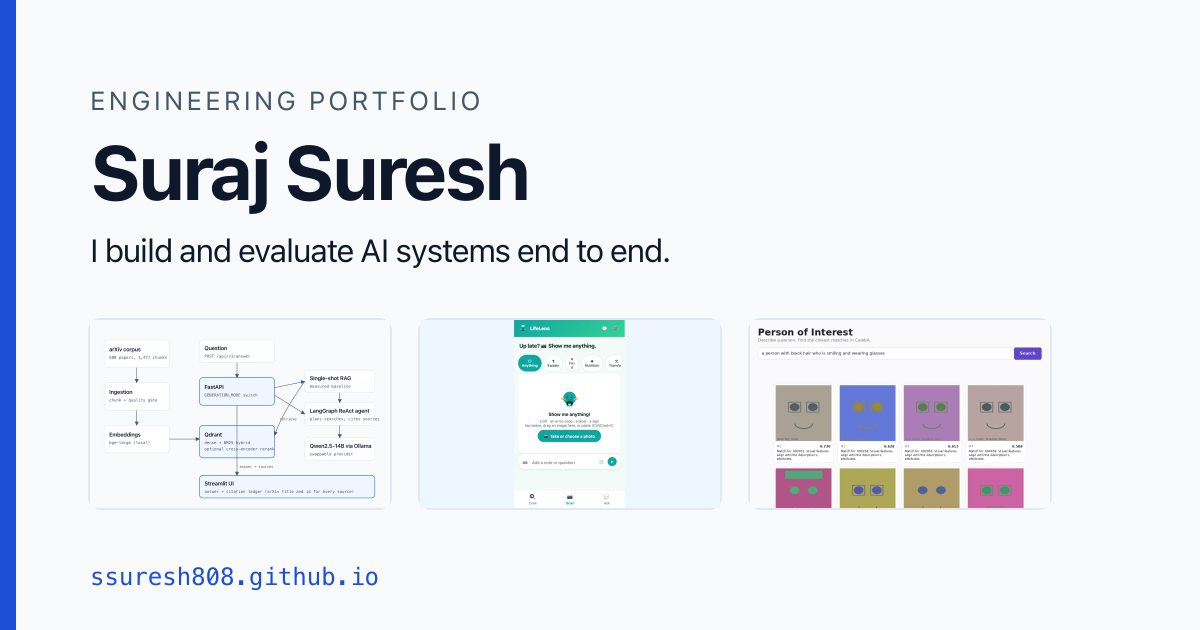
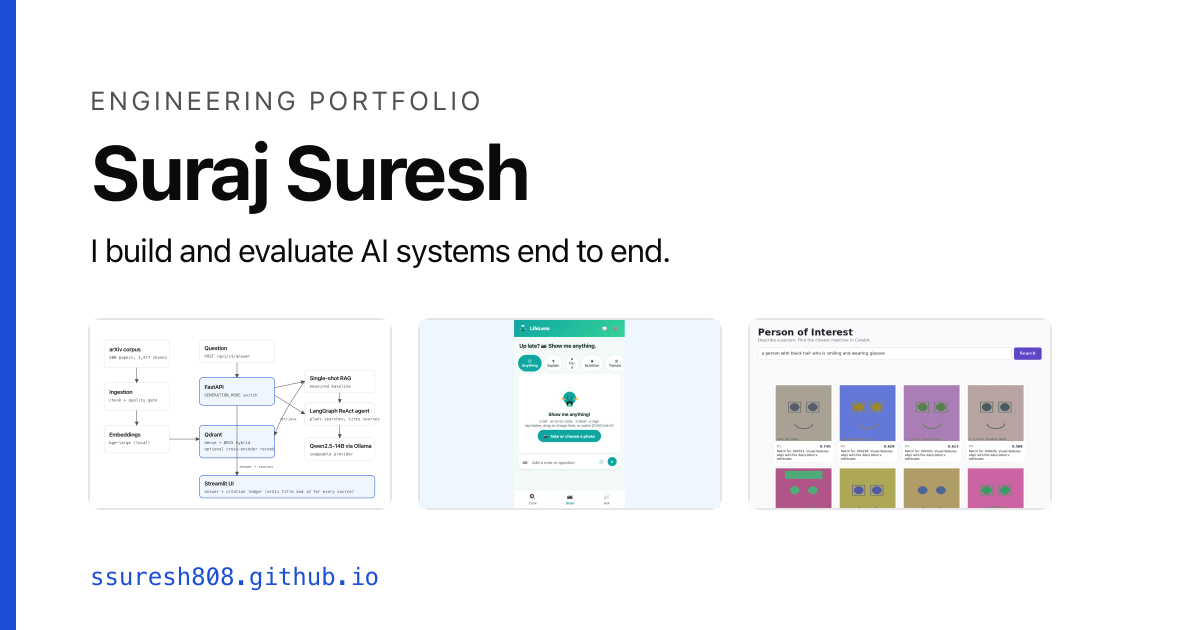
design: white light theme and near-black dark theme

Changed region(s): [[0.0617, 0.2111, 0.4625, 0.3317], [0.0925, 0.3921, 0.555, 0.4222]]

diff --git a/scripts/make-og-image.ts b/scripts/make-og-image.ts
@@ -25,7 +25,7 @@ function wrap(text: string, maxChars: number, maxLines: number): string[] {
 
 function frame(inner: string): string {
   return `<svg xmlns="http://www.w3.org/2000/svg" width="1200" height="630">
-  <rect width="1200" height="630" fill="#f8fafc"/>
+  <rect width="1200" height="630" fill="#ffffff"/>
   <rect x="0" y="0" width="16" height="630" fill="#1d4ed8"/>
   ${inner}
 </svg>`;
@@ -44,14 +44,14 @@ async function home() {
     }),
   );
   const svg = frame(`
-  <text x="90" y="110" font-family="Inter, system-ui, sans-serif" font-size="26" fill="#475569" letter-spacing="4">ENGINEERING PORTFOLIO</text>
-  <text x="90" y="200" font-family="Inter, system-ui, sans-serif" font-size="76" font-weight="700" fill="#0f172a">Suraj Suresh</text>
-  <text x="90" y="262" font-family="Inter, system-ui, sans-serif" font-size="32" fill="#0f172a">I build and evaluate AI systems end to end.</text>
+  <text x="90" y="110" font-family="Inter, system-ui, sans-serif" font-size="26" fill="#525252" letter-spacing="4">ENGINEERING PORTFOLIO</text>
+  <text x="90" y="200" font-family="Inter, system-ui, sans-serif" font-size="76" font-weight="700" fill="#0a0a0a">Suraj Suresh</text>
+  <text x="90" y="262" font-family="Inter, system-ui, sans-serif" font-size="32" fill="#0a0a0a">I build and evaluate AI systems end to end.</text>
   <text x="90" y="585" font-family="IBM Plex Mono, ui-monospace, monospace" font-size="24" fill="#1d4ed8">ssuresh808.github.io</text>`);
   const composites = tiles.map((input, i) => ({ input, left: 90 + i * (tileW + 30), top: 320 }));
   const frames = featured.map(() =>
     Buffer.from(
-      `<svg xmlns="http://www.w3.org/2000/svg" width="${tileW + 4}" height="${tileH + 4}"><rect x="1" y="1" width="${tileW + 2}" height="${tileH + 2}" rx="12" fill="none" stroke="#e2e8f0" stroke-width="2"/></svg>`,
+      `<svg xmlns="http://www.w3.org/2000/svg" width="${tileW + 4}" height="${tileH + 4}"><rect x="1" y="1" width="${tileW + 2}" height="${tileH + 2}" rx="12" fill="none" stroke="#e5e5e5" stroke-width="2"/></svg>`,
     ),
   );
   await sharp(Buffer.from(svg))
@@ -69,11 +69,11 @@ async function projects() {
   for (const p of getPublishedProjects()) {
     const title = wrap(p.title, 36, 3);
     const tagline = wrap(p.tagline, 62, 3);
-    const titleSvg = title.map((l, i) => `<text x="90" y="${200 + i * 62}" font-family="Inter, system-ui, sans-serif" font-size="50" font-weight="700" fill="#0f172a">${esc(l)}</text>`).join('');
+    const titleSvg = title.map((l, i) => `<text x="90" y="${200 + i * 62}" font-family="Inter, system-ui, sans-serif" font-size="50" font-weight="700" fill="#0a0a0a">${esc(l)}</text>`).join('');
     const tagY = 200 + title.length * 62 + 24;
-    const tagSvg = tagline.map((l, i) => `<text x="90" y="${tagY + i * 40}" font-family="Inter, system-ui, sans-serif" font-size="28" fill="#475569">${esc(l)}</text>`).join('');
+    const tagSvg = tagline.map((l, i) => `<text x="90" y="${tagY + i * 40}" font-family="Inter, system-ui, sans-serif" font-size="28" fill="#525252">${esc(l)}</text>`).join('');
     const svg = frame(`
-  <text x="90" y="130" font-family="Inter, system-ui, sans-serif" font-size="26" fill="#475569" letter-spacing="4">${esc(CATEGORY_LABELS[p.category].toUpperCase())}  ·  CASE STUDY</text>
+  <text x="90" y="130" font-family="Inter, system-ui, sans-serif" font-size="26" fill="#525252" letter-spacing="4">${esc(CATEGORY_LABELS[p.category].toUpperCase())}  ·  CASE STUDY</text>
   ${titleSvg}
   ${tagSvg}
   <text x="90" y="560" font-family="IBM Plex Mono, ui-monospace, monospace" font-size="24" fill="#1d4ed8">Suraj Suresh  ·  ssuresh808.github.io/projects/${esc(p.slug)}/</text>`);

diff --git a/src/app/globals.css b/src/app/globals.css
@@ -1,13 +1,13 @@
 @import 'tailwindcss';
 
 @theme {
-  --color-bg: #f8fafc;
-  --color-surface: #ffffff;
-  --color-ink: #0f172a;
-  --color-muted: #475569;
+  --color-bg: #ffffff;
+  --color-surface: #fafafa;
+  --color-ink: #0a0a0a;
+  --color-muted: #525252;
   --color-accent: #1d4ed8;
   --color-accent-tint: #eff6ff;
-  --color-border: #e2e8f0;
+  --color-border: #e5e5e5;
   --color-on-accent: #ffffff;
   --color-warn-bg: #fffbeb;
   --color-warn-text: #78350f;
@@ -32,28 +32,28 @@ html {
 @media (prefers-color-scheme: dark) {
   :root:not([data-theme]) {
     color-scheme: dark;
-    --color-bg: #0b1220;
-    --color-surface: #111a2e;
-    --color-ink: #e2e8f0;
-    --color-muted: #94a3b8;
+    --color-bg: #0a0a0a;
+    --color-surface: #141414;
+    --color-ink: #f5f5f5;
+    --color-muted: #a3a3a3;
     --color-accent: #60a5fa;
     --color-accent-tint: #172554;
-    --color-border: #22304a;
-    --color-on-accent: #0b1220;
+    --color-border: #262626;
+    --color-on-accent: #0a0a0a;
     --color-warn-bg: #3a2a08;
     --color-warn-text: #fde68a;
     --color-warn-border: #a16207;
   }
 }
 :root[data-theme='dark'] {
-  --color-bg: #0b1220;
-  --color-surface: #111a2e;
-  --color-ink: #e2e8f0;
-  --color-muted: #94a3b8;
+  --color-bg: #0a0a0a;
+  --color-surface: #141414;
+  --color-ink: #f5f5f5;
+  --color-muted: #a3a3a3;
   --color-accent: #60a5fa;
   --color-accent-tint: #172554;
-  --color-border: #22304a;
-  --color-on-accent: #0b1220;
+  --color-border: #262626;
+  --color-on-accent: #0a0a0a;
   --color-warn-bg: #3a2a08;
   --color-warn-text: #fde68a;
   --color-warn-border: #a16207;
@@ -286,7 +286,7 @@ html.js [data-reveal].is-visible {
 .card-hover:hover,
 .card-hover:focus-within {
   transform: translateY(-2px);
-  box-shadow: 0 12px 32px -16px rgb(15 23 42 / 0.25);
+  box-shadow: 0 12px 32px -16px rgb(0 0 0 / 0.25);
 }
 
 @keyframes page-enter {

diff --git a/tests/e2e/theme.spec.ts b/tests/e2e/theme.spec.ts
@@ -8,7 +8,7 @@ test('follows the system color scheme by default', async ({ browser }) => {
   await page.goto('http://localhost:3000/');
   await expect(page.locator('html')).toHaveAttribute('data-theme', 'dark');
   const bg = await page.evaluate(() => getComputedStyle(document.body).backgroundColor);
-  expect(bg).toBe('rgb(11, 18, 32)'); // dark background token
+  expect(bg).toBe('rgb(10, 10, 10)'); // dark background token
   await context.close();
 });
 
